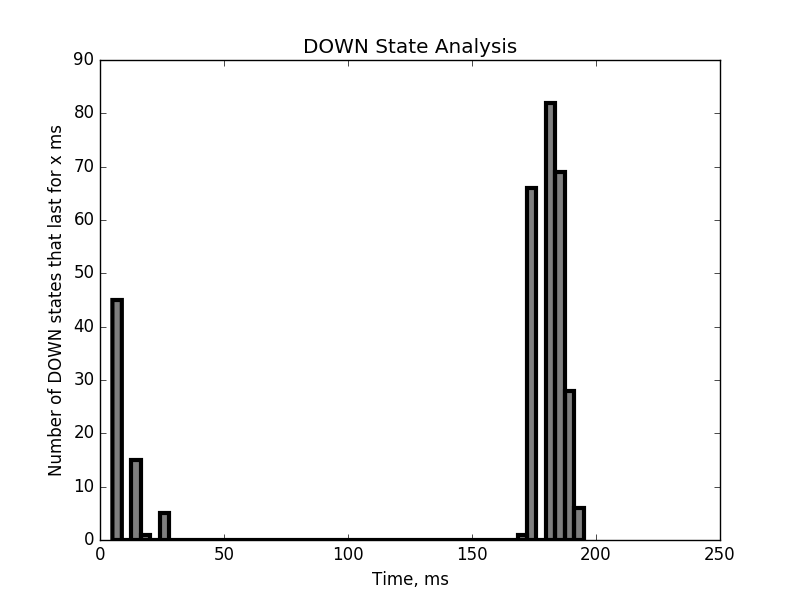
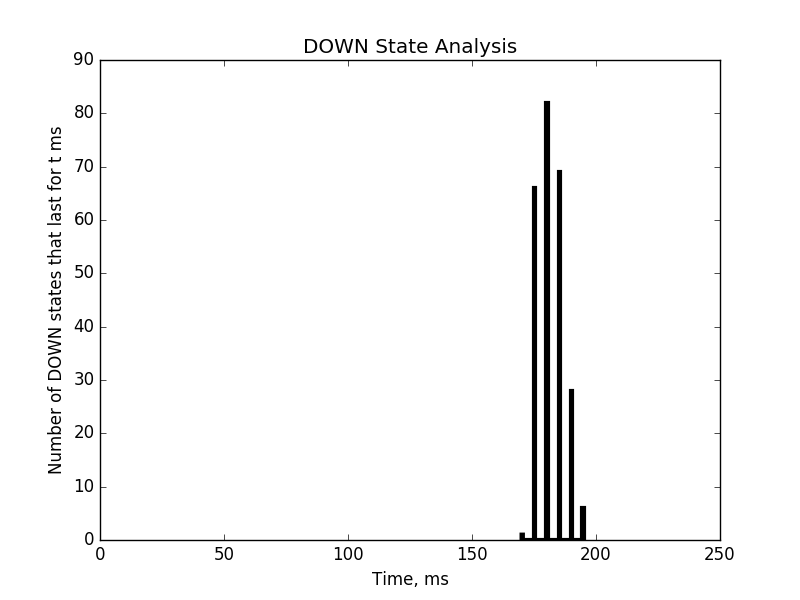
Computer_Neuroscience

Changed region(s): [[0.125, 0.15, 0.75, 0.9], [0.0625, 0.21, 0.0938, 0.81]]

diff --git a/volt_adap.py b/volt_adap.py
@@ -2,7 +2,7 @@ import nest
 import numpy
 import pylab
 
-b = 70.0
+b = 60.0
 
 nest.SetKernelStatus({"local_num_threads":8})
 
@@ -23,7 +23,7 @@ dict_params = {"V_peak" : 0.0
 , "Delta_T" : 2.0
 , "tau_w" : 100.0
 , "a" : 0.0
-, "b" : b
+, "b" : 70.0
 , "V_th" : -55.0
 , "tau_syn_ex" : 0.2
 , "tau_syn_in" : 2.0
@@ -52,7 +52,7 @@ nest.Connect(noise, neurons)
 
 K = 10
 d = 1.0
-J = 70.0
+J = float(b)
 
 conn_dict = {"rule": "fixed_indegree", "indegree": K}
 syn_dict = {"delay": d, "weight": J}
@@ -62,9 +62,9 @@ nest.Connect(neurons, neurons, conn_dict, syn_dict)
 for neuron in neurons:
     nest.SetStatus([neuron], {"V_m": dict_params["E_L"]+(dict_params["V_th"]-dict_params["E_L"])*numpy.random.rand()})
 
-nest.SetStatus(neurons, params={"I_e": 400.0})
+nest.SetStatus(neurons, params={"I_e": float(400)})
 
-nest.Simulate(1000.0)
+nest.Simulate(5000.0)
 
 #nest.ResumeSimulation()
 
@@ -80,21 +80,40 @@ dmm = nest.GetStatus(voltmeter)[0]
 Vms = dmm["events"]["V_m"]
 ts_v = dmm["events"]["times"]
 
+average_list = []
+
+for i in range(0, 5010, 10):
+
+    spike_number = 0
+
+    for t in ts_s:
+
+        if float(i) <= t <= float(i) + 5.0:
+
+            spike_number += 1.0
+
+    average_spikes = spike_number / 100.0
+
+    average_list.append(average_spikes)
+
+#spike_list.append(average_list)
+
+nest.ResetKernel()
 
 
+nest.ResetKernel()
 
-
-pylab.figure("Adaptation b: " + str(b))
+pylab.figure("Adaptation b: " + str(400))
 
 pylab.subplot2grid((3,3),(0,0), colspan=3)
 pylab.plot(ts_v, Vms)
-pylab.xlim(0, 1000)
+#pylab.xlim(0, 5000)
 pylab.xlabel("Time ms")
 pylab.ylabel("Voltage pA")
 
 pylab.subplot2grid((3,3),(1,0), colspan=3)
 pylab.plot(ts_s, evs, ".")
-pylab.xlim(0, 1000)
+#pylab.xlim(0, 5000)
 pylab.xlabel("Time ms")
 pylab.ylabel("Neuron Label")
 

diff --git a/spike_freq_anal.py b/spike_freq_anal.py
@@ -5,7 +5,7 @@ import simplejson
 #from gpu_class import gpuThread
 
 
-for I in range(390,510,10):
+for I in range(0,110,10):
 
     spike_list = []
 
@@ -61,7 +61,7 @@ for I in range(390,510,10):
 
         K = 10
         d = 1.0
-        J = float(b)
+        J = float(I)
 
         conn_dict = {"rule": "fixed_indegree", "indegree": K}
         syn_dict = {"delay": d, "weight": J}
@@ -71,7 +71,7 @@ for I in range(390,510,10):
         for neuron in neurons:
             nest.SetStatus([neuron], {"V_m": dict_params["E_L"]+(dict_params["V_th"]-dict_params["E_L"])*numpy.random.rand()})
 
-        nest.SetStatus(neurons, params={"I_e": float(I)})
+        nest.SetStatus(neurons, params={"I_e": float(400)})
 
         nest.Simulate(5000.0)
 
@@ -93,7 +93,7 @@ for I in range(390,510,10):
 
             for t in ts_s:
 
-                if float(i) <= t <= float(i) + 5.0:
+                if float(i) <= t < float(i) + 5.0:
 
                     spike_number += 1.0
 
@@ -127,6 +127,6 @@ for I in range(390,510,10):
     final_list.append(UP_list)
     final_list.append(DOWN_list)
 
-    open_file = open("spike_analysis_" + str(I) + ".json", "w")
+    open_file = open("spike_analysis_internal_" + str(I) + ".json", "w")
     simplejson.dump(final_list, open_file)
     open_file.close()

diff --git a/statistical_analysis.py b/statistical_analysis.py
@@ -7,15 +7,20 @@ import math
 import scipy.stats as ss
 
 
-for I in range(390,470, 10):
+for I in range(0,110, 10):
 
-    open_file = open("spike_analysis_" + str(I) + ".json", "r")
+    open_file = open("spike_analysis_internal_" + str(I) + ".json", "r")
     final_list = simplejson.load(open_file)
 
     #print(final_list)
 
+    #DOWN_state = []
+
     UP_state = final_list[0]
     DOWN_state = final_list[1]
+    #for D in final_list[1]:
+    #    if D > 50.0:
+    #        DOWN_state.append(D)
 
     #UP_state = UP_state.sort()
     #DOWN_state = DOWN_state.sort()
@@ -35,11 +40,11 @@ for I in range(390,470, 10):
     plt.legend()"""
 
     n, bins, patches = plt.hist(UP_state, 50, lw=3, fc=(0, 0, 0, 0.5))
-    plt.xlim(0,25)
+    #plt.xlim(0,250)
     plt.xlabel("Time, ms")
-    plt.ylabel("Number of UP states that last for x ms")
+    plt.ylabel("Number of UP states that last for t ms")
 
-    plt.savefig("UP State External Current " + str(I))
+    plt.savefig("UP State Internal Current " + str(I))
 
 
 
